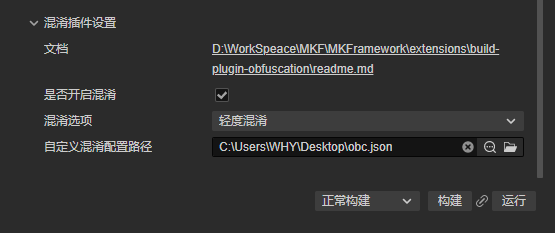
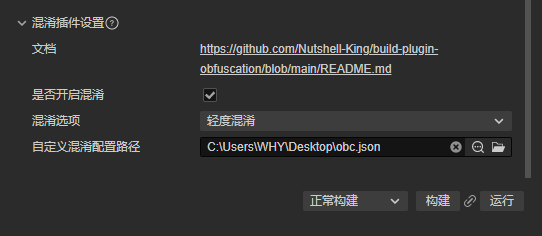
修改文档链接

diff --git a/dist/builder.js b/dist/builder.js
@@ -1,7 +1,6 @@
 "use strict";
 Object.defineProperty(exports, "__esModule", { value: true });
 exports.assetHandlers = exports.configs = exports.unload = exports.load = void 0;
-const path_1 = require("path");
 const global_1 = require("./global");
 const load = function () {
     console.debug(`${global_1.PACKAGE_NAME} load`);
@@ -48,11 +47,11 @@ const complexTestItems = {
 exports.configs = {
     '*': {
         hooks: './hooks',
-        // doc: join(__dirname, "../readme.md"),
+        doc: "https://github.com/Nutshell-King/build-plugin-obfuscation/blob/main/README.md",
         options: {
             doc: {
                 label: `i18n:${global_1.PACKAGE_NAME}.options.doc`,
-                default: (0, path_1.join)(__dirname, "../readme.md"),
+                default: "https://github.com/Nutshell-King/build-plugin-obfuscation/blob/main/README.md",
                 render: {
                     ui: 'ui-link',
                 },

diff --git a/source/builder.ts b/source/builder.ts
@@ -47,11 +47,11 @@ const complexTestItems = {
 export const configs: BuildPlugin.Configs = {
     '*': {
         hooks: './hooks',
-        // doc: join(__dirname, "../readme.md"),
+        doc: "https://github.com/Nutshell-King/build-plugin-obfuscation/blob/main/README.md",
         options: {
             doc: {
                 label: `i18n:${PACKAGE_NAME}.options.doc`,
-                default: join(__dirname, "../README.md"),
+                default: "https://github.com/Nutshell-King/build-plugin-obfuscation/blob/main/README.md",
                 render: {
                     ui: 'ui-link',
                 },

diff --git a/dist/obfuscater.js b/dist/obfuscater.js
@@ -176,8 +176,8 @@ class Obfuscater {
         });
     }
     // 递归获取所有.js文件的地址
-    getAllJsFilePaths(folderPath, jsFilePaths = []) {
-        return __awaiter(this, void 0, void 0, function* () {
+    getAllJsFilePaths(folderPath_1) {
+        return __awaiter(this, arguments, void 0, function* (folderPath, jsFilePaths = []) {
             const files = yield (0, promises_1.readdir)(folderPath);
             for (const file of files) {
                 const filePath = (0, path_1.join)(folderPath, file);
